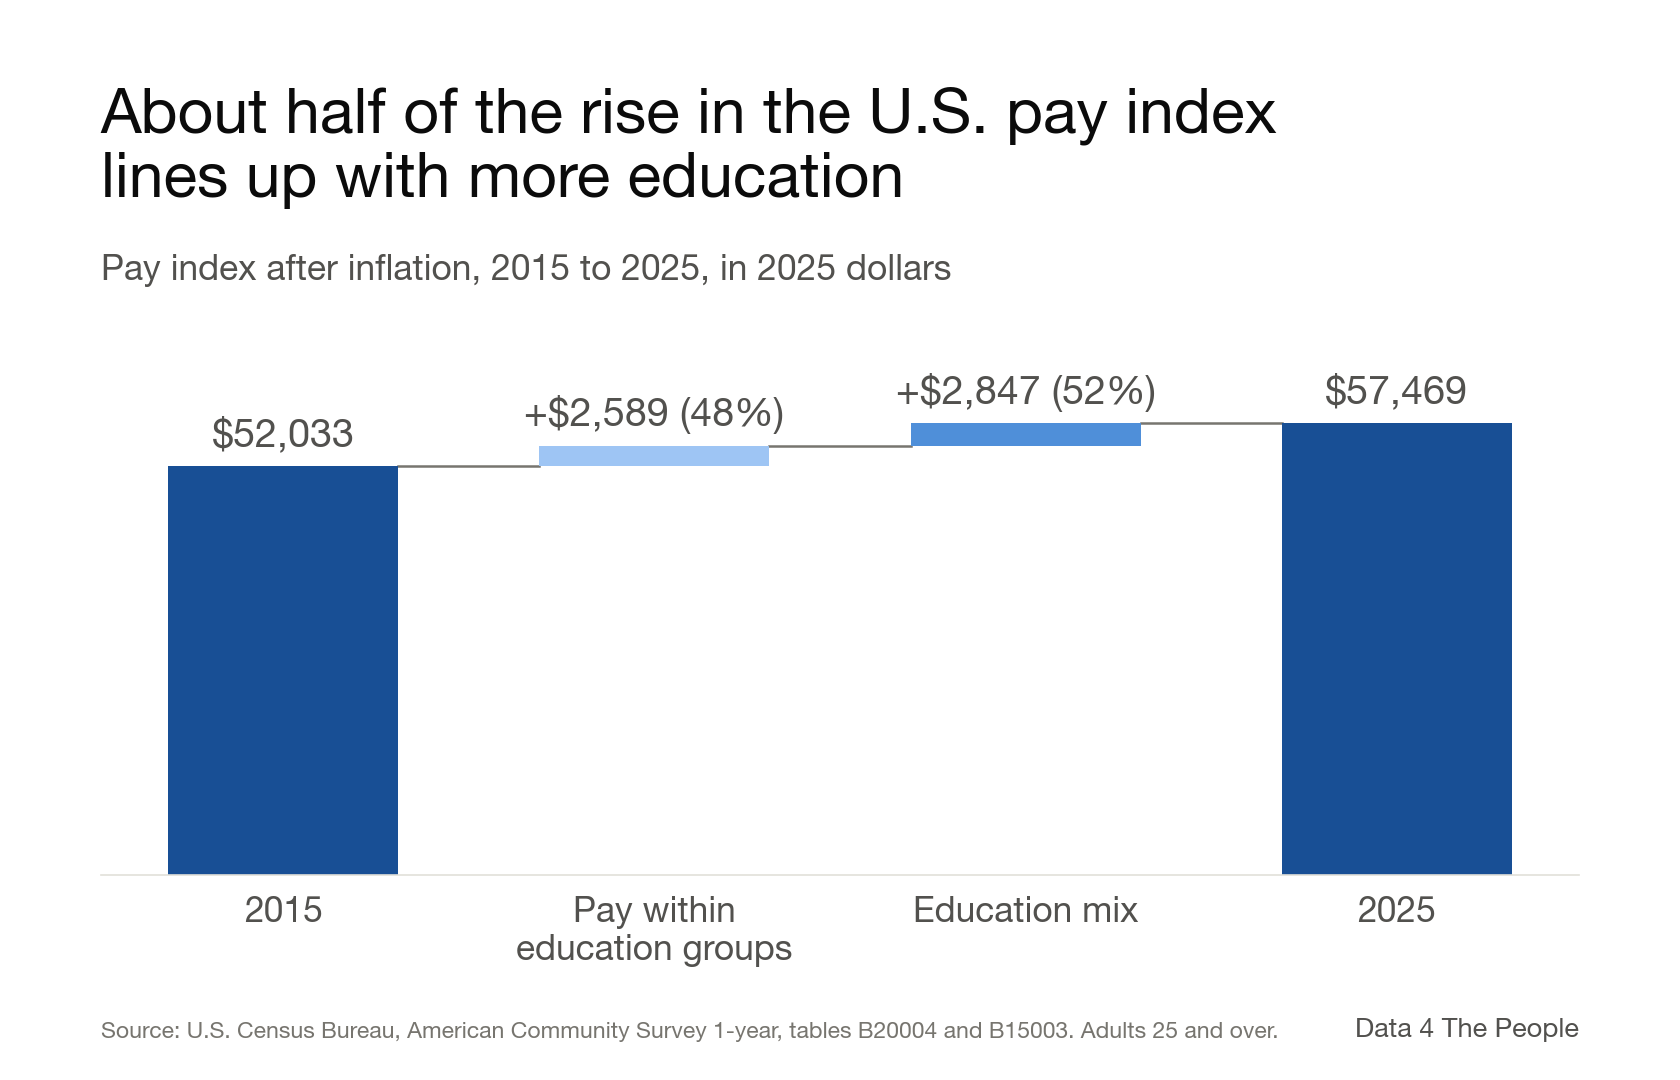
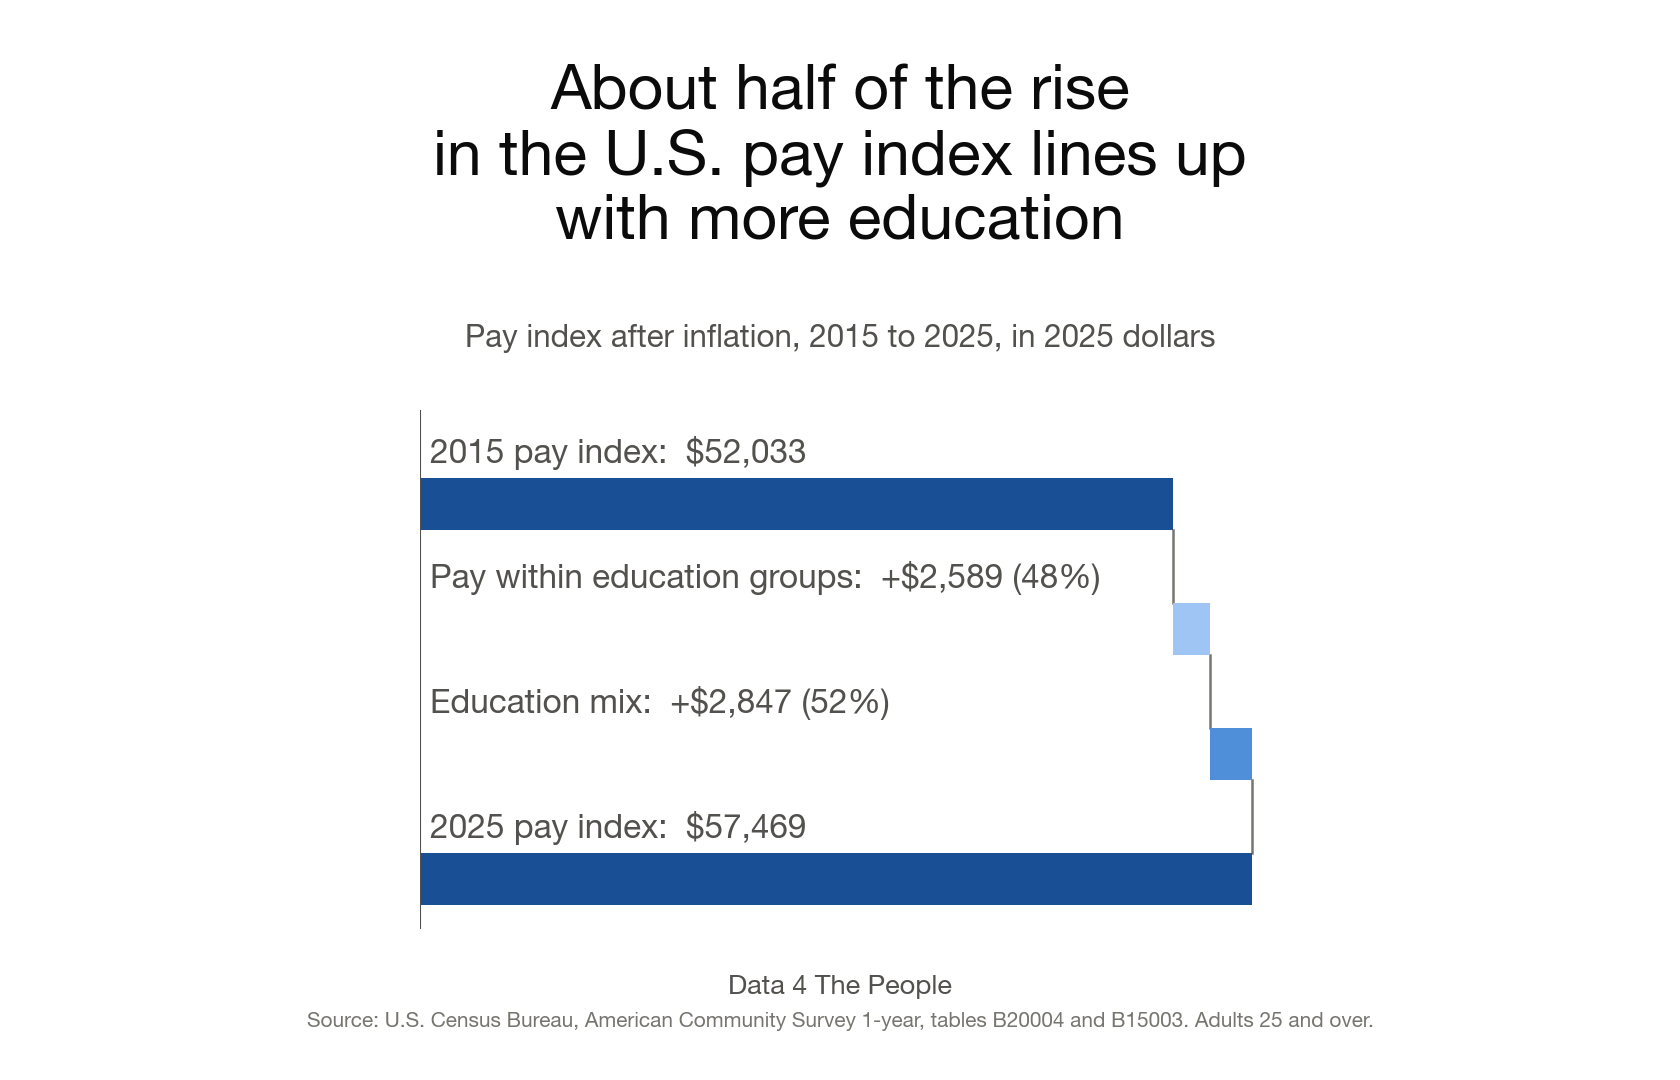
educational-attainment: hero as horizontal bridge for the site's card crop

Changed region(s): [[0.0619, 0.3056, 0.8976, 0.9778], [0.0619, 0.0611, 0.7738, 0.275], [0.8048, 0.9472, 0.9286, 0.9778]]

diff --git a/scripts/post_charts.py b/scripts/post_charts.py
@@ -246,36 +246,33 @@ def hero_chart(h1, h2, o2, first, last):
                 f"from the education mix {mix:+,.0f}."])
     assert abs(within + mix - (o2 - h1)) < 1e-6 and within > 0 and mix > 0
 
-    # Drawn at hero size (1680 x 1080) with a takeaway headline, so the type stays large.
+    # Drawn at hero size (1680 x 1080) with a takeaway headline. The site's post cards crop the hero to a
+    # narrow center strip, so every label and number sits in the middle half of the width.
     fig = plt.figure(figsize=(11.2, 7.2), dpi=150)
-    fig.text(0.06, 0.92, "About half of the rise in the U.S. pay index\nlines up with more education", fontsize=30,
-             fontweight="bold", va="top", linespacing=1.15)
-    fig.text(0.06, 0.765, f"Pay index after inflation, {first} to {last}, in {last} dollars", fontsize=17, color=INK2, va="top")
-    ax = fig.add_axes([0.06, 0.19, 0.88, 0.48])
-    for sp in ("top", "right", "left"):
-        ax.spines[sp].set_visible(False)
-    ax.spines["bottom"].set_color(GRID)
-    ax.tick_params(length=0)
+    fig.text(0.5, 0.94, "About half of the rise\nin the U.S. pay index lines up\nwith more education", fontsize=30,
+             fontweight="bold", ha="center", va="top", linespacing=1.15)
+    fig.text(0.5, 0.70, f"Pay index after inflation, {first} to {last}, in {last} dollars", fontsize=15, color=INK2,
+             ha="center", va="top")
+    ax = fig.add_axes([0.25, 0.14, 0.50, 0.48])
+    ax.axis("off")
     rise = o2 - h1
-    steps = [(f"{first}", 0, h1, C2025, f"\\${h1:,.0f}"),
-             ("Pay within\neducation groups", h1, within, C2016, f"+\\${within:,.0f} ({100 * within / rise:.0f}%)"),
+    steps = [(f"{first} pay index", 0, h1, C2025, f"\\${h1:,.0f}"),
+             ("Pay within education groups", h1, within, C2016, f"+\\${within:,.0f} ({100 * within / rise:.0f}%)"),
              ("Education mix", h2, mix, "#4f8fd9", f"+\\${mix:,.0f} ({100 * mix / rise:.0f}%)"),
-             (f"{last}", 0, o2, C2025, f"\\${o2:,.0f}")]
-    for x, (name, base, v, c, text) in enumerate(steps):
-        ax.bar(x, v, bottom=base, width=0.62, color=c, zorder=2)
-        top = base + v
-        ax.text(x, top + 1500, text, ha="center", va="bottom", fontsize=19, color=INK2,
+             (f"{last} pay index", 0, o2, C2025, f"\\${o2:,.0f}")]
+    for i, (name, base, v, c, text) in enumerate(steps):
+        y = len(steps) - 1 - i
+        ax.barh(y, v, left=base, height=0.42, color=c, zorder=2)
+        ax.text(o2 * 0.012, y + 0.27, f"{name}:  {text}", ha="left", va="bottom", fontsize=16, color=INK2,
                 fontweight="bold" if base == 0 else "normal")
-        if x < len(steps) - 1:
-            ax.plot([x + 0.31, x + 0.69], [top, top], color=MUTED, lw=1.2, zorder=1)
-    ax.set_xticks(range(len(steps)))
-    ax.set_xticklabels([n for n, *_ in steps], fontsize=17, color=INK2)
-    ax.set_yticks([])
-    ax.set_ylim(0, 66000)
-    ax.tick_params(axis="x", pad=10)
-    fig.text(0.06, 0.035, f"Source: U.S. Census Bureau, American Community Survey 1-year, tables B20004 and B15003. "
-             f"Adults 25 and over.", fontsize=11, color=MUTED, va="bottom")
-    fig.text(0.94, 0.035, "Data 4 The People", fontsize=13, color=INK2, fontweight="bold", ha="right", va="bottom")
+        if i < len(steps) - 1:
+            ax.plot([base + v, base + v], [y - 0.21, y - 1 + 0.21], color=MUTED, lw=1.2, zorder=1)
+    ax.axvline(0, color=INK2, lw=1, zorder=3)
+    ax.set_xlim(0, o2 * 1.01)
+    ax.set_ylim(-0.4, len(steps) - 0.25)
+    fig.text(0.5, 0.045, f"Source: U.S. Census Bureau, American Community Survey 1-year, tables B20004 and B15003. "
+             f"Adults 25 and over.", fontsize=10, color=MUTED, ha="center", va="bottom")
+    fig.text(0.5, 0.075, "Data 4 The People", fontsize=13, color=INK2, fontweight="bold", ha="center", va="bottom")
     fig.savefig(IMG / "educational-attainment-hero-source.png", facecolor="white")
     plt.close(fig)
 

diff --git a/STATUS.md b/STATUS.md
@@ -46,3 +46,4 @@ None.
 - 2026-11-02 Draft pushed to Prismic (document auhxzRIAACcAaG8R, Migration Release), 6 images uploaded. Map iframe blank until the repo is public with Pages on.
 - 2026-11-02 Repo made public at Eric's request; GitHub Pages on from main root. Map live at https://data4thepeople.github.io/educational-attainment/dist/.
 - 2026-11-02 Publish date set to 2026-11-02, 6:30 a.m. Eastern (EST, -05:00); draft updated in Prismic.
+- 2026-11-02 Hero redrawn as a centered horizontal bridge so the site's narrow card crop shows the headline and bars; re-uploaded to the draft.
